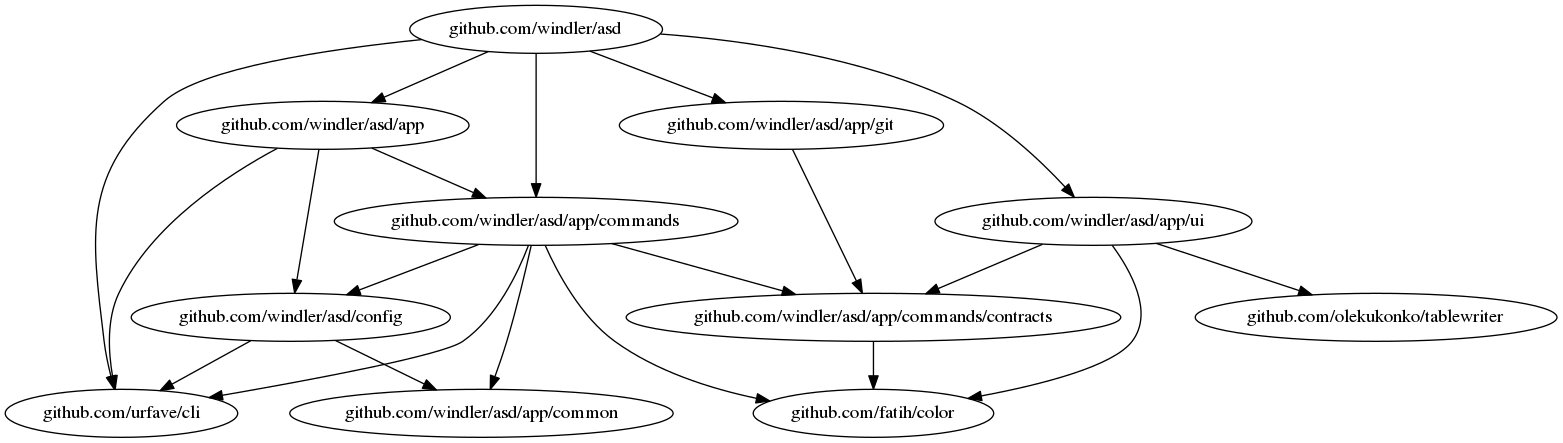
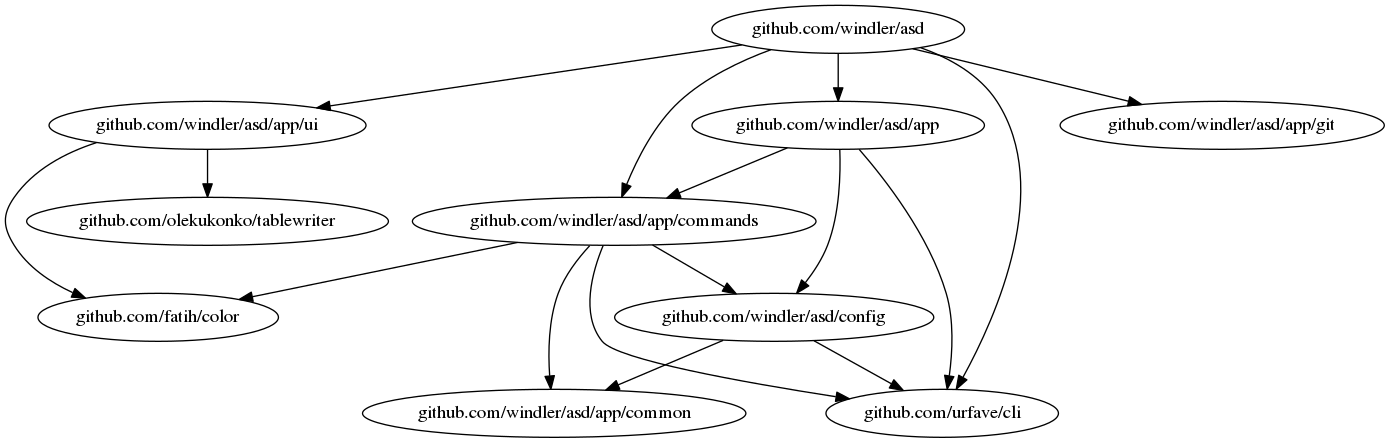
added tests, updated graphs in readme

diff --git a/graph/graph.go b/graph/graph.go
@@ -4,12 +4,14 @@ import (
 	"strings"
 )
 
+//Graph represents the dependency graph of a package
 type Graph struct {
 	name  string
 	edges map[string][]string
 	nodes []string
 }
 
+//New creates a new Graph with a given name
 func New(name string) *Graph {
 	return &Graph{
 		name:  name,
@@ -18,10 +20,12 @@ func New(name string) *Graph {
 	}
 }
 
+//AddNode add a node to string. There does not have to be an edge for a node.
 func (g *Graph) AddNode(node string) {
-	g.nodes = append(g.nodes, getIdSafeNodeName(node))
+	g.nodes = append(g.nodes, getIDSafeNodeName(node))
 }
 
+//GetDotFileContent create the content of a dot-file (graphviz)
 func (g *Graph) GetDotFileContent() string {
 	content := []string{"digraph " + g.name + " {"}
 
@@ -38,7 +42,7 @@ func (g *Graph) GetDotFileContent() string {
 	return strings.Join(content, "\n")
 }
 
-func getIdSafeNodeName(id string) string {
+func getIDSafeNodeName(id string) string {
 	result := strings.TrimSpace(id)
 	if strings.HasSuffix(result, "/") {
 		result = result[0 : len(result)-1]
@@ -48,32 +52,35 @@ func getIdSafeNodeName(id string) string {
 	return result
 }
 
+//AddDirectedEdge adds an directed edge for two nodes to the graph
 func (g *Graph) AddDirectedEdge(from, to string) {
-	saveFrom := getIdSafeNodeName(from)
-	saveTo := getIdSafeNodeName(to)
+	saveFrom := getIDSafeNodeName(from)
+	saveTo := getIDSafeNodeName(to)
 	if _, found := g.edges[saveFrom]; !found {
 		g.edges[saveFrom] = []string{}
 	}
 	g.edges[saveFrom] = append(g.edges[saveFrom], saveTo)
 }
 
+//GetDependencies returns alls direct dipendencies for a package within the graph
 func (g *Graph) GetDependencies(pkg string) []string {
 	dependencies := []string{}
 
 	for from, deps := range g.edges {
-		if from == getIdSafeNodeName(pkg) {
+		if from == getIDSafeNodeName(pkg) {
 			dependencies = deps
 		}
 	}
 	return dependencies
 }
 
+//GetDependents returns all packages that directly depend on the given package within the graph
 func (g *Graph) GetDependents(pkg string) []string {
 	dependents := []string{}
 loop:
 	for from, deps := range g.edges {
 		for _, to := range deps {
-			if to == getIdSafeNodeName(pkg) {
+			if to == getIDSafeNodeName(pkg) {
 				dependents = append(dependents, from)
 				continue loop
 			}

diff --git a/graph/graph_test.go b/graph/graph_test.go
@@ -1,0 +1,66 @@
+package graph
+
+import (
+	"strings"
+	"testing"
+
+	"github.com/stretchr/testify/assert"
+)
+
+func TestEmptyGraph(t *testing.T) {
+	g := New("my test graph")
+
+	assert.Equal(t, "my test graph", g.name)
+	assert.Equal(t, 0, len(g.edges))
+	assert.Equal(t, 0, len(g.nodes))
+}
+
+func TestDotFile(t *testing.T) {
+	g := New("test_graph")
+
+	g.AddNode("nodeA")
+	g.AddNode("nodeB")
+	g.AddNode("nodeC")
+	g.AddNode("nodeD")
+
+	g.AddDirectedEdge("nodeA", "nodeB")
+	g.AddDirectedEdge("nodeC", "nodeB")
+	g.AddDirectedEdge("nodeA", "nodeC")
+
+	assert.Equal(t, 2, len(g.edges))
+	assert.Equal(t, 2, len(g.edges[`"nodeA"`]))
+	assert.Equal(t, 1, len(g.edges[`"nodeC"`]))
+
+	assert.Equal(t, 4, len(g.nodes))
+
+	dotFile := g.GetDotFileContent()
+	assert.True(t, strings.Contains(dotFile, `digraph test_graph`))
+	assert.True(t, strings.Contains(dotFile, `"nodeA"->"nodeB"`))
+	assert.True(t, strings.Contains(dotFile, `"nodeA"->"nodeC"`))
+	assert.True(t, strings.Contains(dotFile, `"nodeC"->"nodeB"`))
+	assert.True(t, strings.Contains(dotFile, `"nodeA"`))
+	assert.True(t, strings.Contains(dotFile, `"nodeB"`))
+	assert.True(t, strings.Contains(dotFile, `"nodeC"`))
+	assert.True(t, strings.Contains(dotFile, `"nodeD"`))
+}
+
+func TestGetDependencies(t *testing.T) {
+	g := New("test_graph")
+
+	g.AddNode("nodeA")
+	g.AddNode("nodeB")
+	g.AddNode("nodeC")
+
+	g.AddDirectedEdge("nodeA", "nodeB")
+	g.AddDirectedEdge("nodeC", "nodeB")
+	g.AddDirectedEdge("nodeA", "nodeC")
+
+	assert.Equal(t, []string{`"nodeB"`, `"nodeC"`}, g.GetDependencies("nodeA"))
+	assert.Equal(t, []string{}, g.GetDependents("nodeA"))
+
+	assert.Equal(t, []string{}, g.GetDependencies("nodeB"))
+	assert.Equal(t, []string{`"nodeA"`, `"nodeC"`}, g.GetDependents("nodeB"))
+
+	assert.Equal(t, []string{`"nodeB"`}, g.GetDependencies("nodeC"))
+	assert.Equal(t, []string{`"nodeA"`}, g.GetDependents("nodeC"))
+}

diff --git a/godepg.go b/godepg.go
@@ -26,7 +26,7 @@ func main() {
 	app.Copyright = "2017"
 	app.Action = action
 	app.Version = "1.0.0"
-	app.Description = "Create a dependency graph for ypur go package."
+	app.Description = "Create a dependency graph for your go package."
 	app.Usage = "go dependency graph generator"
 	app.Flags = []cli.Flag{
 		cli.StringFlag{
@@ -225,7 +225,7 @@ func addEdge(c *cli.Context, graph *graph.Graph, from, to string) {
 
 	graph.AddNode(from)
 
-	if c.Bool("n") && matcher.NewGoPAckagesMatcher(to).Matches() {
+	if c.Bool("n") && matcher.NewGoPackagesMatcher(to).Matches() {
 		return
 	}
 

diff --git a/matcher/filterMatcher_test.go b/matcher/filterMatcher_test.go
@@ -1,0 +1,13 @@
+package matcher
+
+import (
+	"testing"
+
+	"github.com/stretchr/testify/assert"
+)
+
+func TestFilterMatcher(t *testing.T) {
+	assert.True(t, NewFilterMatcher("my text", []string{"text"}).Matches())
+	assert.False(t, NewFilterMatcher("my text", []string{"textt"}).Matches())
+	assert.True(t, NewFilterMatcher("my text", []string{"t", "text"}).Matches())
+}

diff --git a/matcher/subPackageMatcher_test.go b/matcher/subPackageMatcher_test.go
@@ -1,0 +1,13 @@
+package matcher
+
+import (
+	"testing"
+
+	"github.com/stretchr/testify/assert"
+)
+
+func TestSubPackageMatcher(t *testing.T) {
+	assert.False(t, NewSubPackageMatcher("my-base", "os").Matches())
+	assert.True(t, NewSubPackageMatcher("my-base", "my-base/asd").Matches())
+	assert.True(t, NewSubPackageMatcher("my-base", "my-base/ddd/eee").Matches())
+}

diff --git a/matcher/goPackagesMatcher_test.go b/matcher/goPackagesMatcher_test.go
@@ -1,0 +1,13 @@
+package matcher
+
+import (
+	"testing"
+
+	"github.com/stretchr/testify/assert"
+)
+
+func TestGoPackagesMatcher(t *testing.T) {
+	assert.False(t, NewGoPackagesMatcher("my-pkg").Matches())
+	assert.True(t, NewGoPackagesMatcher("os").Matches())
+	assert.True(t, NewGoPackagesMatcher("fmt").Matches())
+}

diff --git a/matcher/goPackagesMatcher.go b/matcher/goPackagesMatcher.go
@@ -17,7 +17,7 @@ var (
 	goPackages *[]string
 )
 
-func NewGoPAckagesMatcher(text string) *GoPackagesMatcher {
+func NewGoPackagesMatcher(text string) *GoPackagesMatcher {
 	return &GoPackagesMatcher{
 		text: text,
 	}
